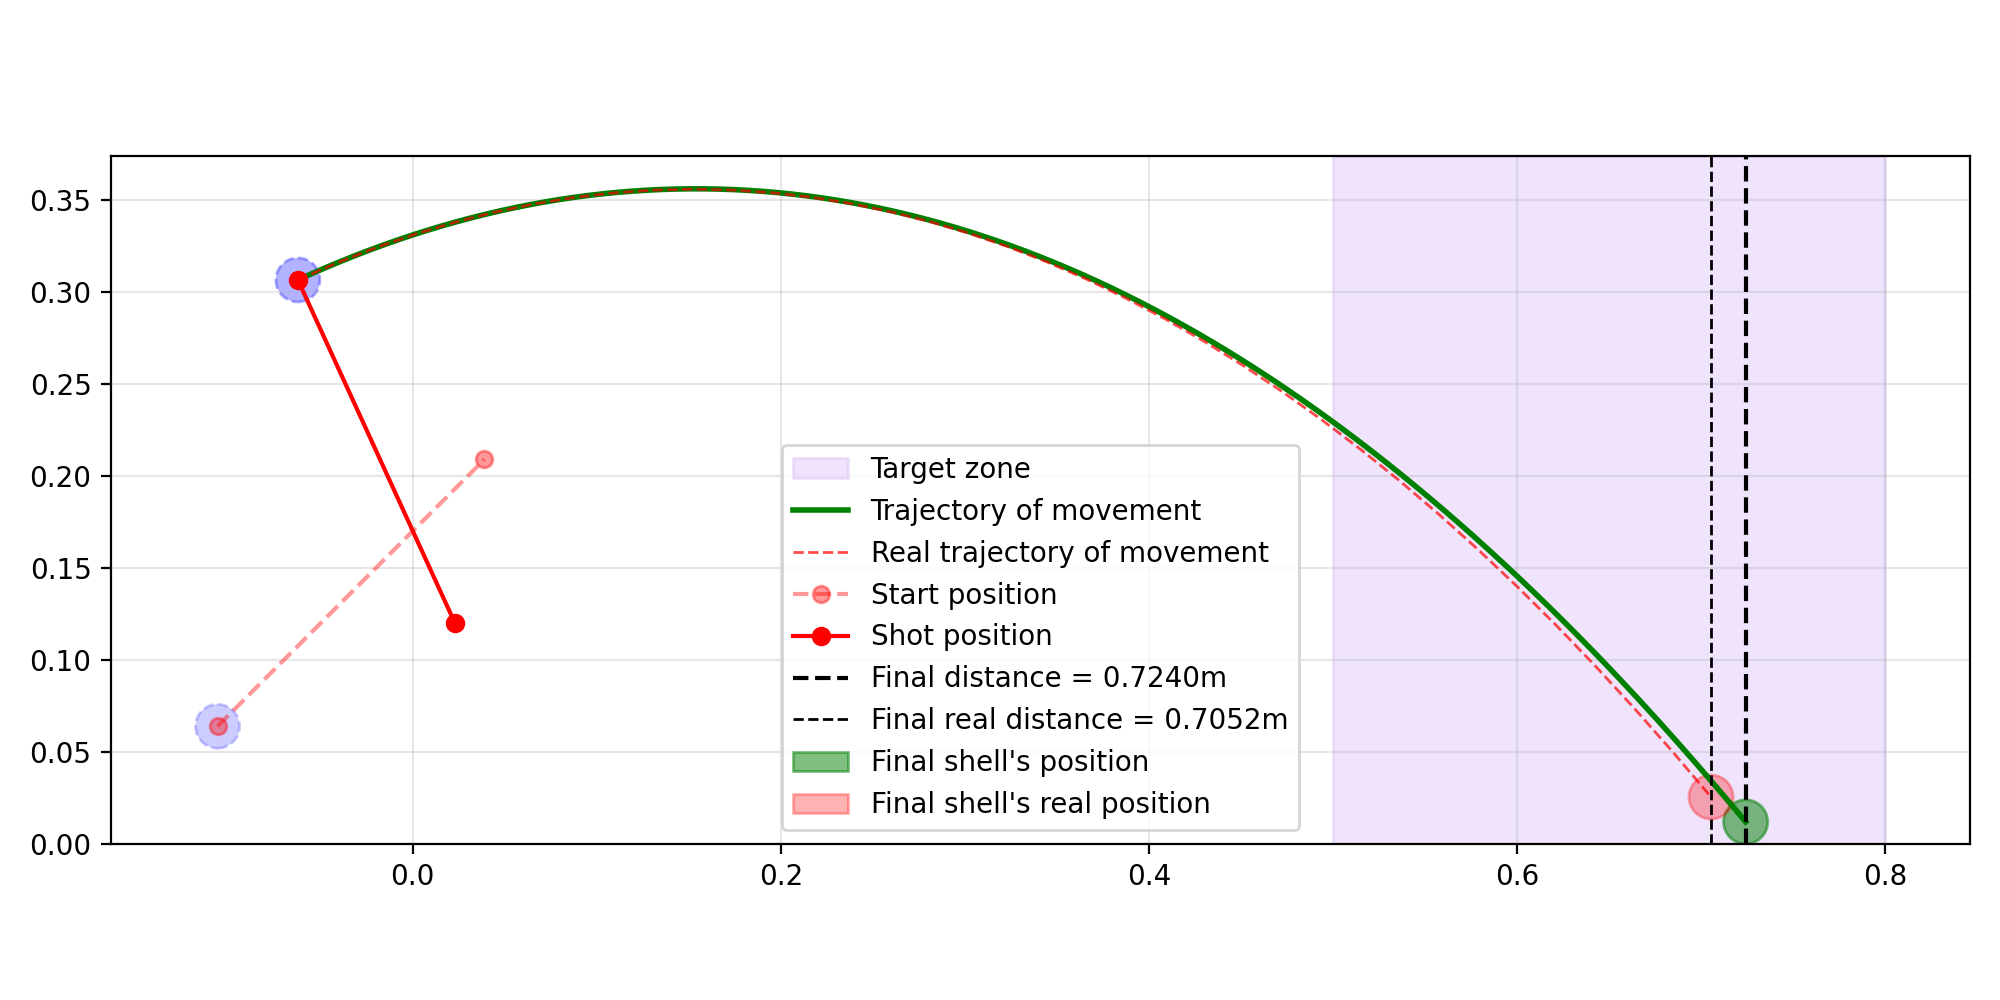
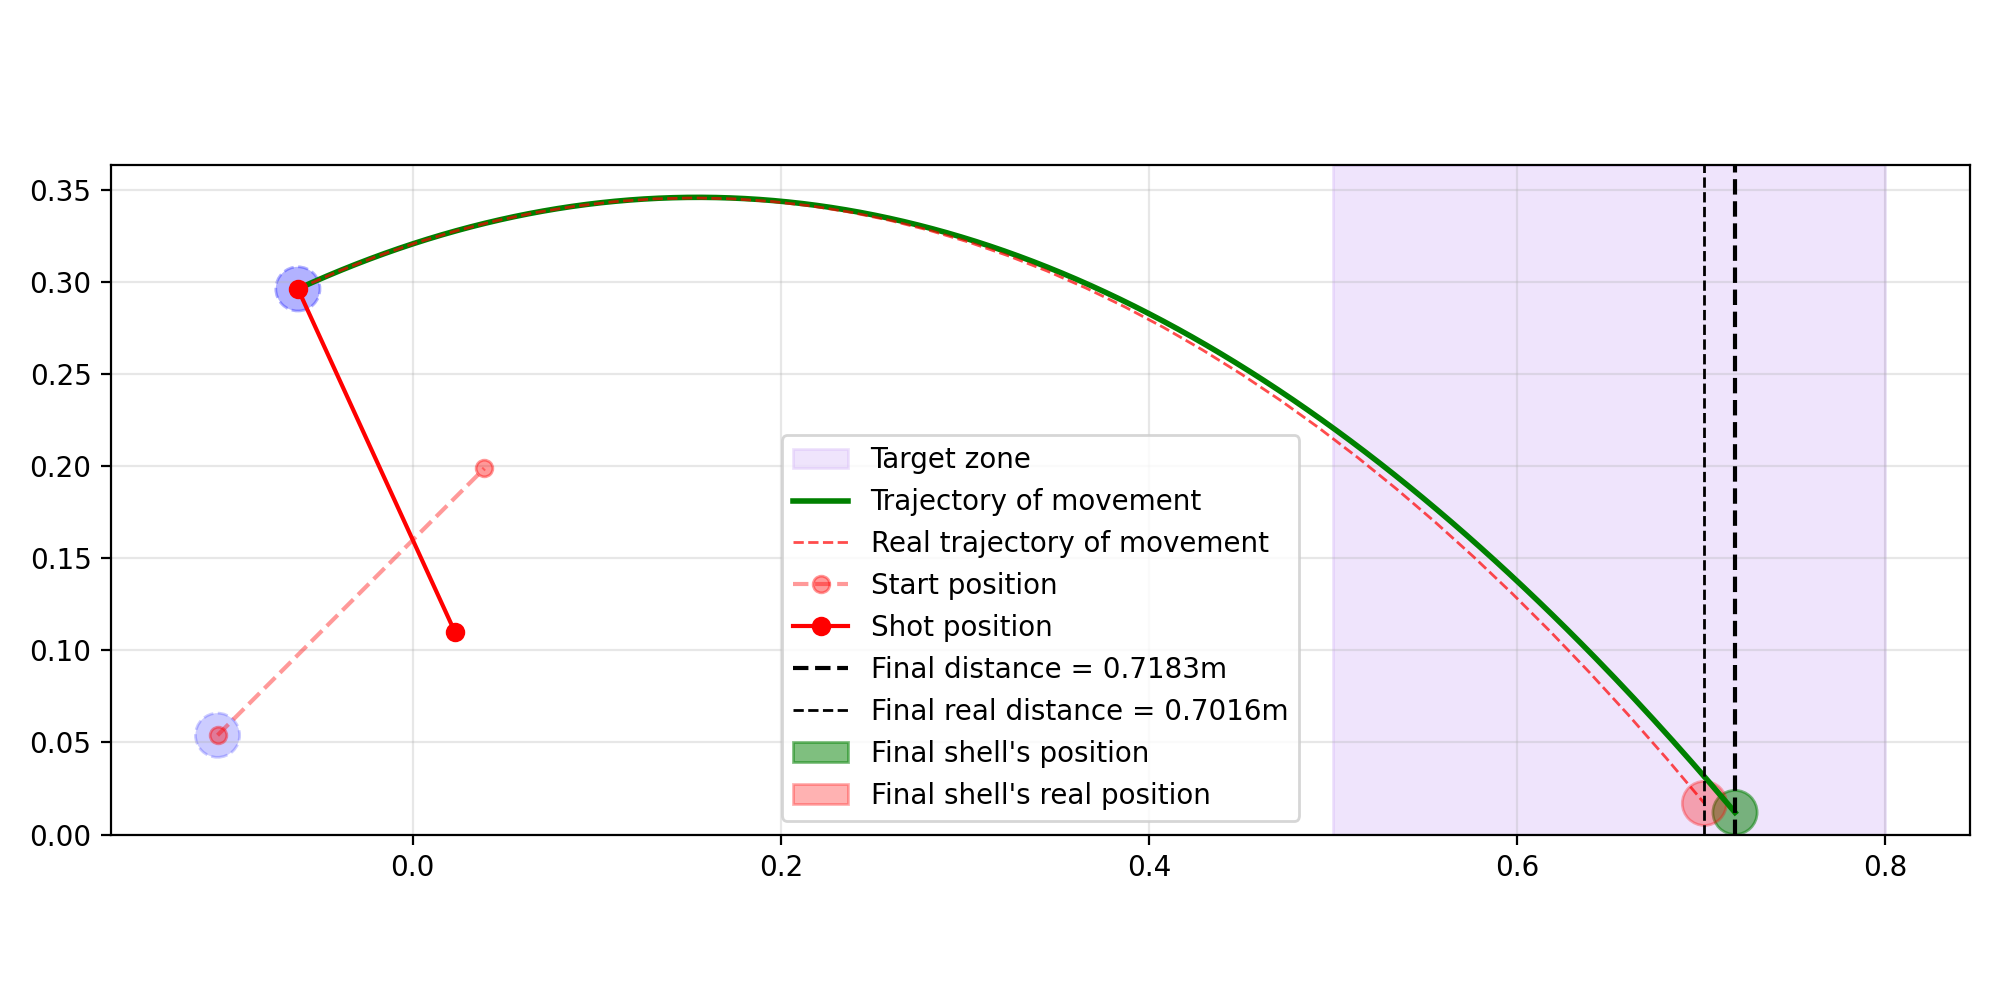
updated

diff --git a/test.py b/test.py
@@ -10,13 +10,12 @@ class const:
     h = 0.16
     l1, l2 = 0.055, 0.15
     l3 = (l1 + l2) / 2
-    # phi_start = -4 * np.pi / 5
-    phi_start = 5 * np.pi / 4
-    phi_end = 2
+    phi_start = np.pi / 4
+    phi_end = np.pi
     r = 0.012
     mg = 80 / 1000
-    ms = 3 / 1000
-    mr = 6 / 1000
+    ms = 5 / 1000
+    mr = 3 / 1000
     Jg = 0.4 * mg * 0.03 ** 2
 
     # windage
@@ -34,7 +33,7 @@ class const:
 # shell's inertia
 Js = const.ms * const.l2 ** 2
 # lever's inertia
-Jr = const.mr * (const.l1 + const.l2) ** 2 / 12 + const.mr * const.l3 ** 2
+Jr = const.mr * (const.l1 + const.l2) ** 2 / 3
 # load's inertia
 Jg = const.Jg + const.mg * const.l1 ** 2
 # common inertia
@@ -46,23 +45,24 @@ M0 = const.g * (const.mg * const.l1 - const.ms * const.l2 - const.mr * const.l3)
 print("Constant of moment", M0, "H")
 
 # rotation speed by the angle
-w = -np.sqrt(2 * M0 / J * (np.sin(const.phi_end) - np.sin(const.phi_start)))
+print(2 * M0 / J * (np.sin(const.phi_end) - np.sin(const.phi_start)))
+w = np.sqrt(2 * M0 / J * (np.cos(const.phi_start) - np.cos(const.phi_end)))
 print("Rotation speed:", w, "rad/s")
 
 # vector of velocity by the coordinates
-vox = -const.l2 * np.sin(const.phi_end) * w
-voy = const.l2 * np.cos(const.phi_end) * w
+voy = const.l2 * np.sin(const.phi_end) * w
+vox = -const.l2 * np.cos(const.phi_end) * w
 print("Velosity X:", vox, "m/s")
 print("Velocity Y:", voy, "m/s")
 
 # state of rest position of the lever
-A0 = (const.l2 * np.cos(const.phi_start), const.h + const.l2 * np.sin(const.phi_start))
-B0 = (-const.l1 * np.cos(const.phi_start), const.h - const.l1 * np.sin(const.phi_start))
+A0 = (-const.l2 * np.sin(const.phi_start), const.h - const.l2 * np.cos(const.phi_start))
+B0 = (const.l1 * np.sin(const.phi_start), const.h + const.l1 * np.cos(const.phi_start))
 
 # start position of the level
-A = (const.l2 * np.cos(const.phi_end), const.h + const.l2 * np.sin(const.phi_end))
+A = (-const.l2 * np.sin(const.phi_end), const.h - const.l2 * np.cos(const.phi_end))
 x0, y0 = A
-B = (-const.l1 * np.cos(const.phi_end), const.h - const.l1 * np.sin(const.phi_end))
+B = (const.l1 * np.sin(const.phi_end), const.h + const.l1 * np.cos(const.phi_end))
 
 
 def f(x):
@@ -74,10 +74,8 @@ def f(x):
 
 # calculating shot distance
 D = 4 * (vox * voy + const.g * x0) ** 2 + 4 * const.g * (2 * vox ** 2 * (y0 - const.r) - x0 * (2 * vox * voy + const.g * x0))
-D = 4 * (voy ** 2 + 2 * const.g * (y0 - const.r))
-T = (2 * voy + np.sqrt(D)) / (2 * const.g)
 L = (2 * (vox * voy + const.g * x0) + np.sqrt(D)) / (2 * const.g)
-L = x0 + vox * T
+print("Discriminant:", D)
 print("Distance", L, "m")
 Ly = f(L)
 
